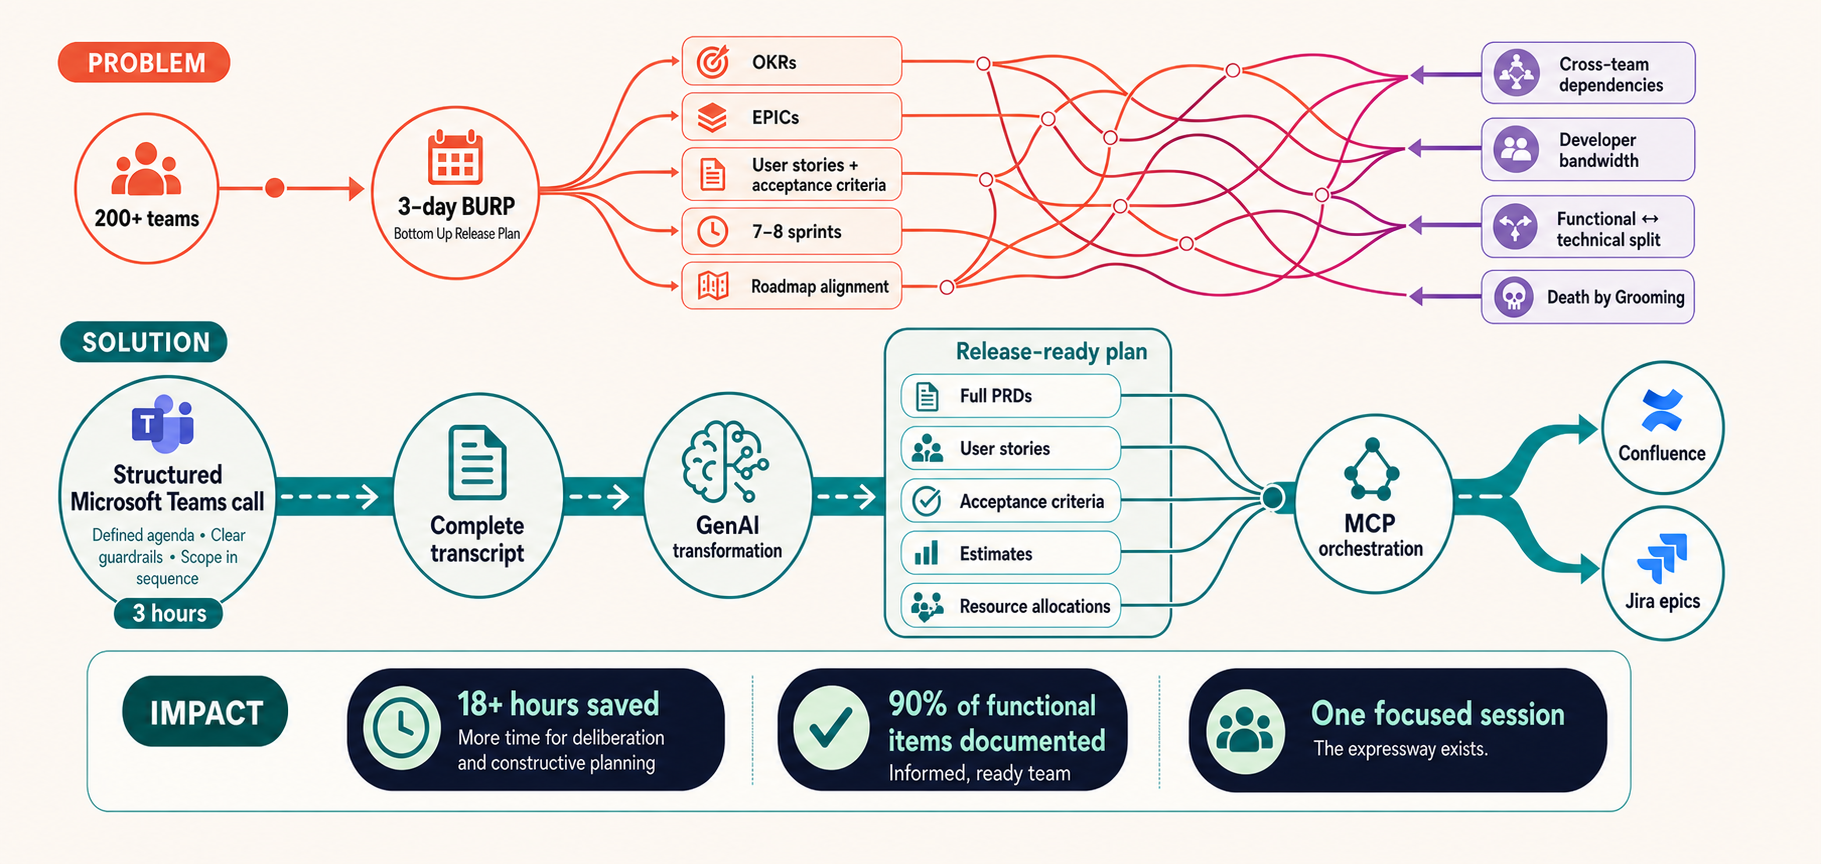
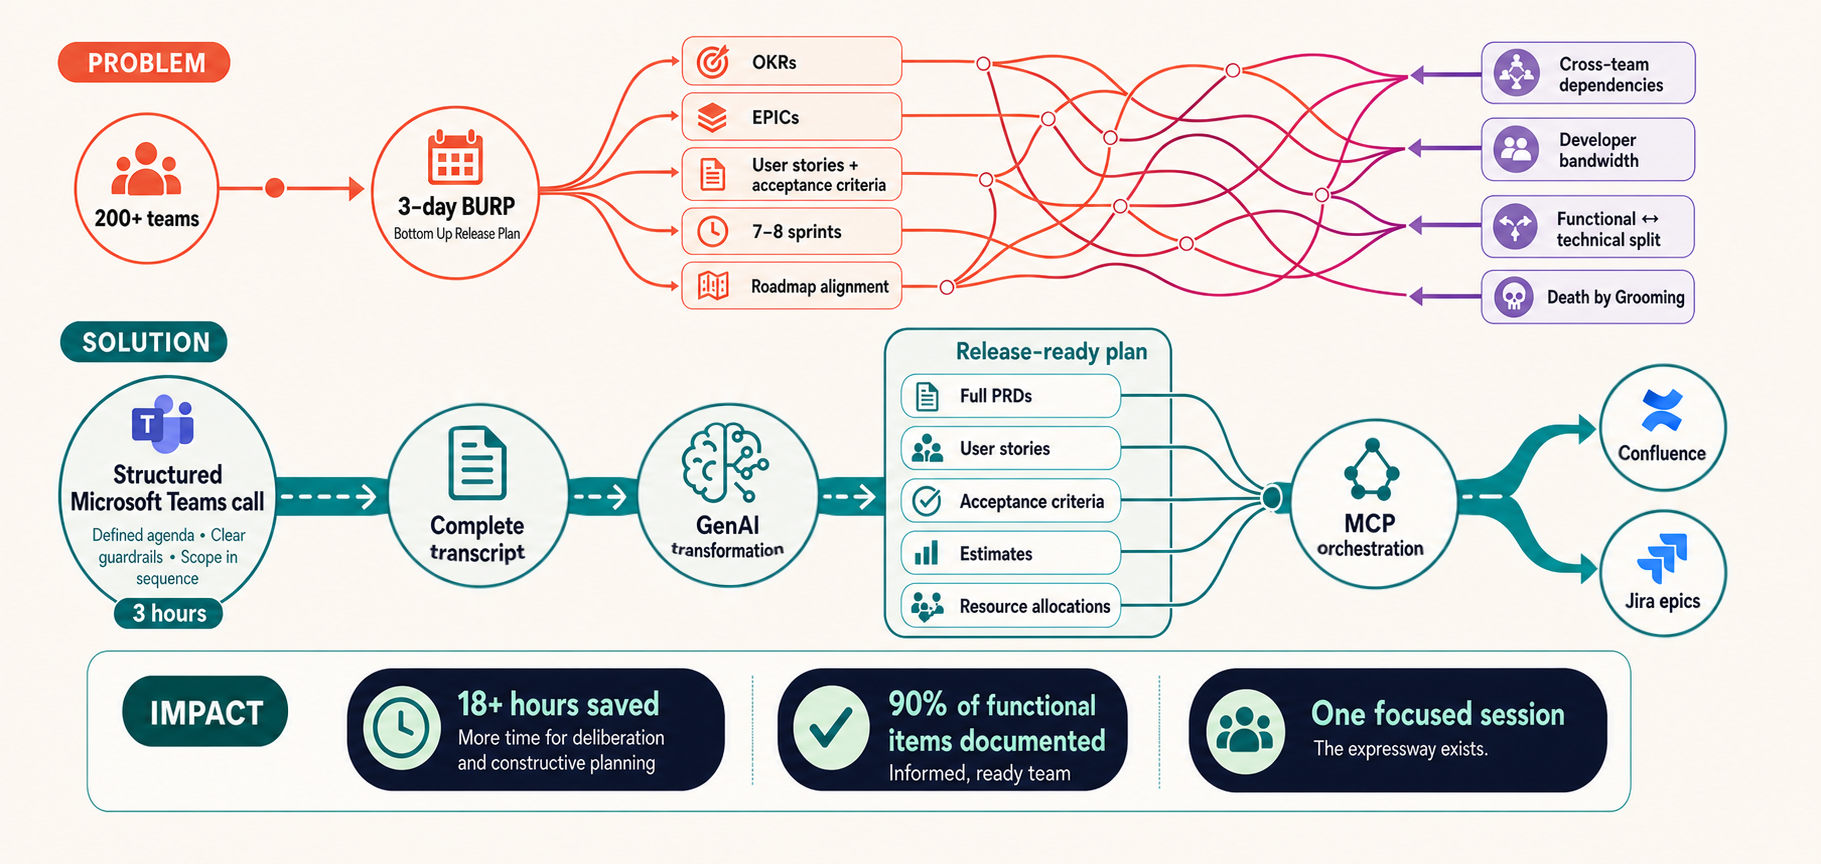
Make uneven circles round in Death by Grooming image
Claude-Session: https://claude.ai/code/session_01LzF9Dbu9owfLqA5q2kEq36

diff --git a/working-with-ai.html b/working-with-ai.html
@@ -660,7 +660,7 @@
                         <p><strong>Solution</strong></p>
                         <p>Rather than replacing the ritual entirely, I decided to redesign it by using a tool the team was already familiar with, but in this case, adding an AI layer on top.</p>
                         <div class="zoom-frame" style="border:1px solid #2B2320;border-radius:6px;overflow:hidden;padding:0;margin:24px 0;">
-                            <img src="Images/Grooming-.png" alt="Death by Grooming" style="width:100%;display:block;">
+                            <img src="Images/Grooming-.png?v=2" alt="Death by Grooming" style="width:100%;display:block;">
                         </div>
                         <p>We sat in the same room and joined a structured Microsoft Teams call with a defined agenda and clear guardrails to keep the conversation focused. To minimise or eliminate drift as much as possible. We moved through our planned scope in sequence, and three hours later, we had a complete meeting transcript with the help of Co-pilot. A few adjustments were made to the transcript before moving on to the next phase.</p>
                         <p>That transcript became the raw input for a carefully structured GenAI prompt. The output: PRDs with user stories and acceptance criteria, mostly estimated, with resource allocations mapped against the development team's known bandwidth and functional-technical work split. Not just documentation, but something very close to an actual release plan.</p>
